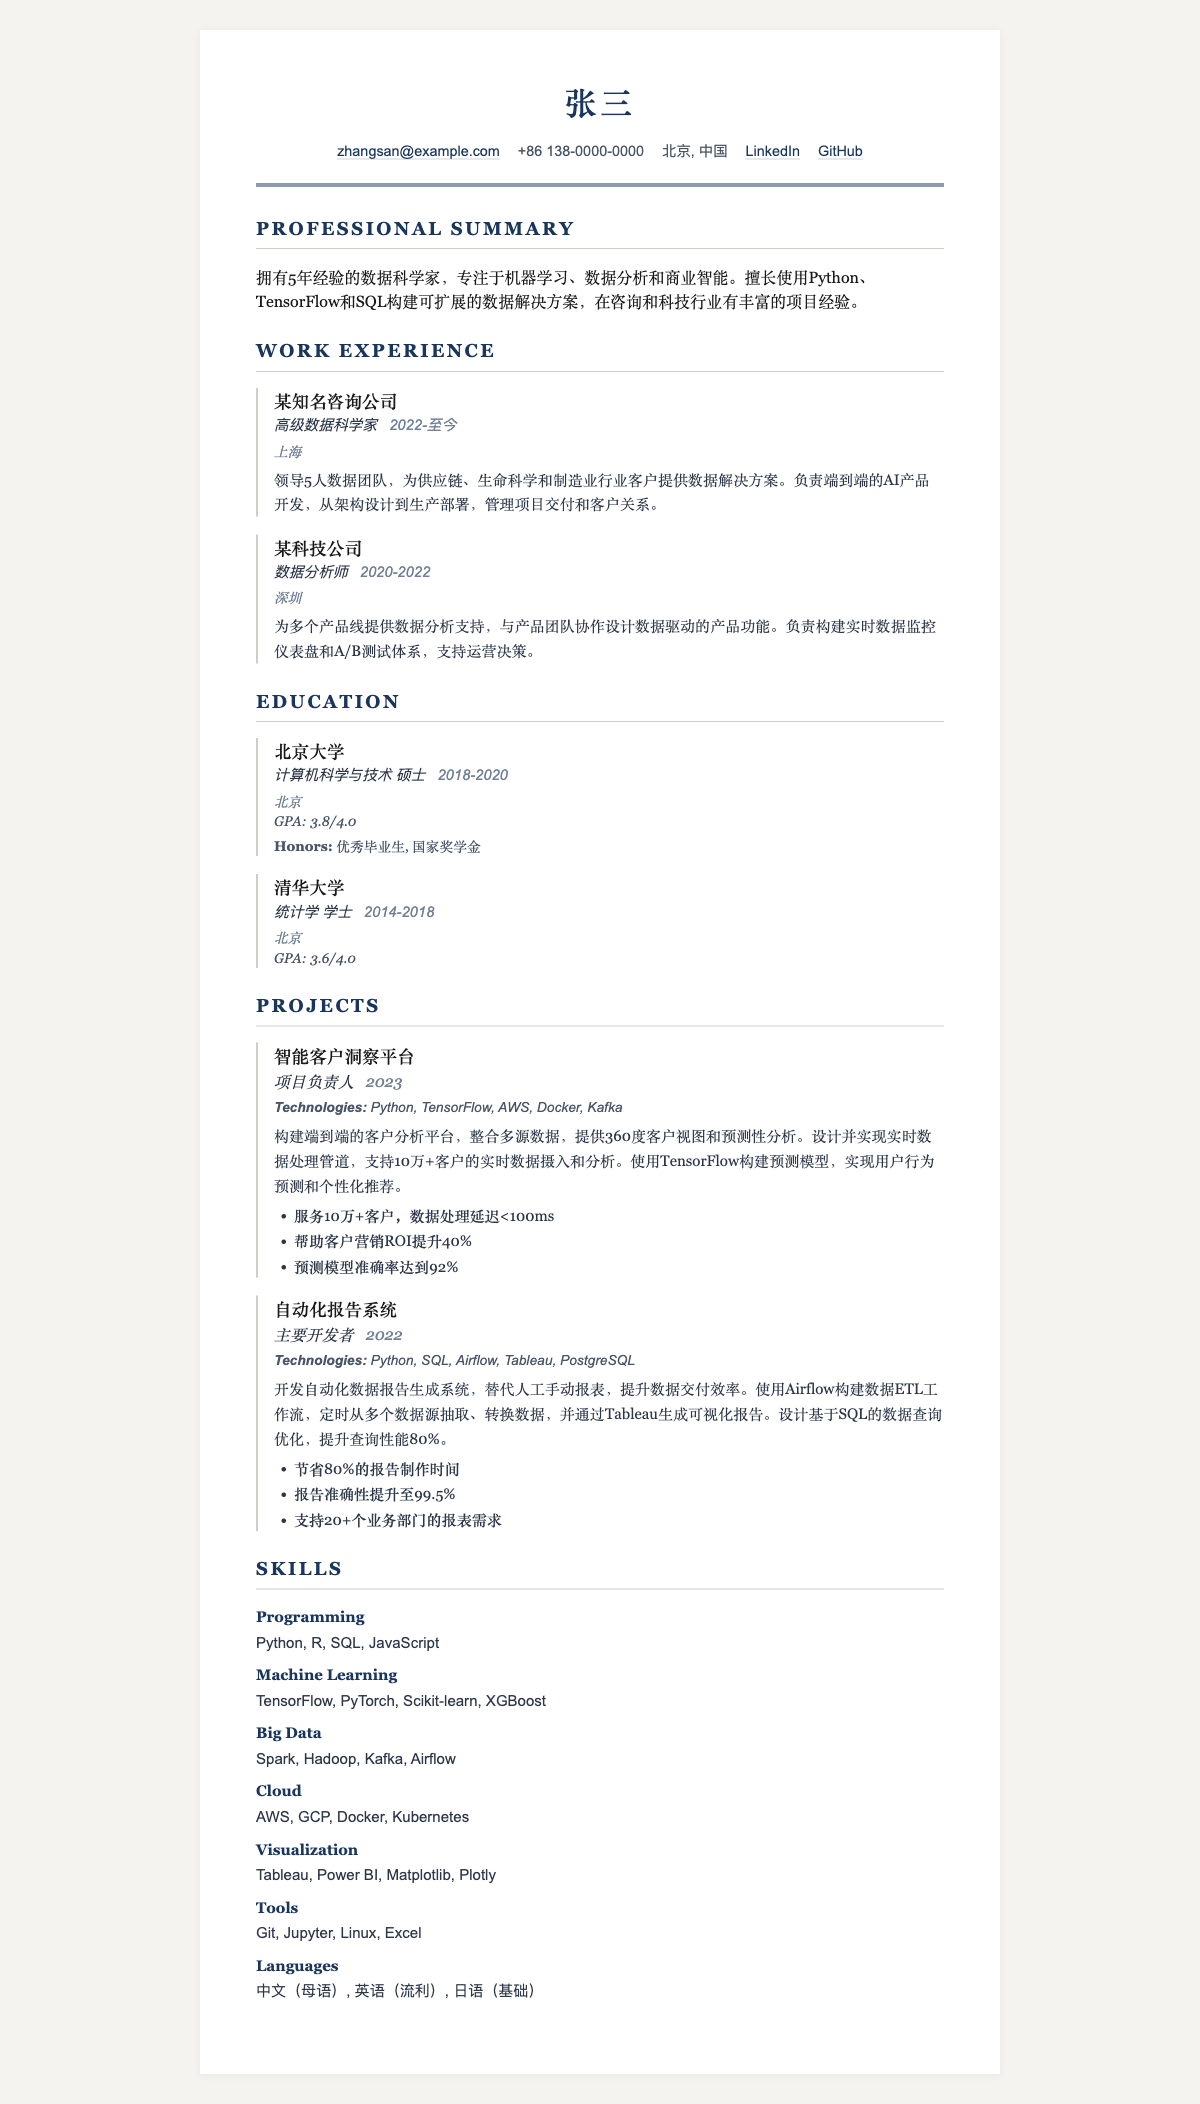
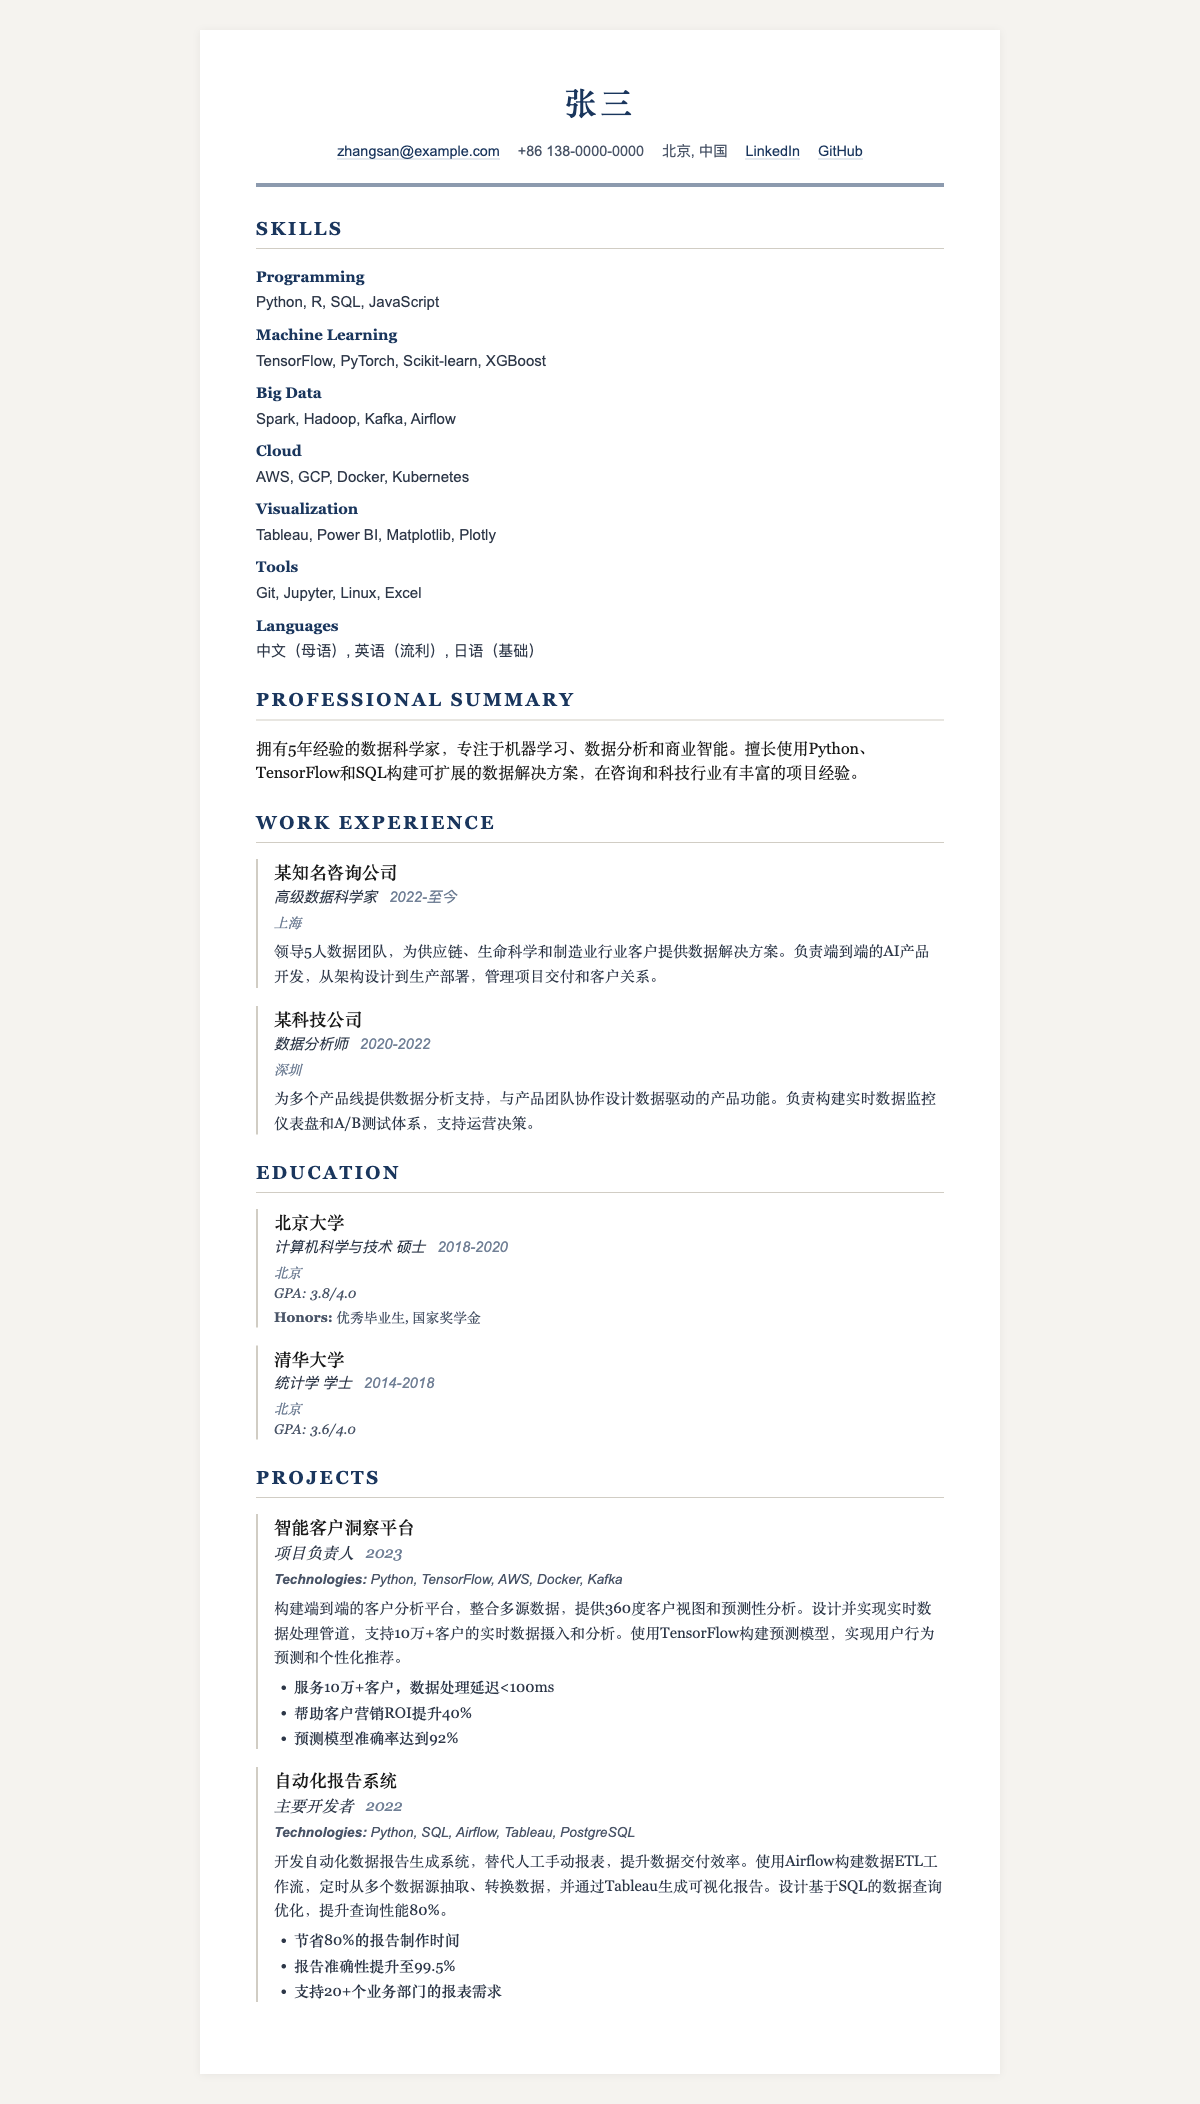
Fix modern theme sidebar alignment and update preview screenshots
Switch modern theme from CSS Grid to Flexbox layout so the skills
section aligns with the right column's bottom edge. Wrap sidebar and
main content in semantic <aside>/<main> elements. Update all theme
previews and use table layout in README for horizontal image alignment.

diff --git a/assets/css/modern.css b/assets/css/modern.css
@@ -15,8 +15,7 @@ body {
 }
 
 .resume-container {
-    display: grid;
-    grid-template-columns: 260px 1fr;
+    display: flex;
     max-width: 900px;
     margin: 0 auto;
     background: #1e293b;
@@ -25,8 +24,14 @@ body {
 
 /* --- Sidebar (Column 1) --- */
 
+.sidebar {
+    width: 260px;
+    flex-shrink: 0;
+    display: flex;
+    flex-direction: column;
+}
+
 .resume-header {
-    grid-column: 1;
     padding: 40px 24px 20px;
     color: white;
 }
@@ -62,9 +67,9 @@ body {
 }
 
 [data-section="skills"] {
-    grid-column: 1;
     padding: 0 24px 40px;
     color: white;
+    margin-top: auto;
 }
 
 [data-section="skills"] .section-title {
@@ -91,11 +96,15 @@ body {
 
 /* --- Main Content (Column 2) --- */
 
+.main-content {
+    flex: 1;
+    background: white;
+}
+
 [data-section="summary"],
 [data-section="experience"],
 [data-section="education"],
 [data-section="projects"] {
-    grid-column: 2;
     background: white;
     padding: 28px 40px;
 }
@@ -251,8 +260,12 @@ body {
     }
 
     .resume-container {
-        display: block;
+        flex-direction: column;
         max-width: 100%;
+    }
+
+    .sidebar {
+        width: 100%;
     }
 
     .resume-header {

diff --git a/scripts/generate_html.py b/scripts/generate_html.py
@@ -141,32 +141,36 @@ def generate_resume_html(resume_data, theme="modern", language="en"):
 
 def build_sections(resume_data, language):
     """Build HTML sections from resume data."""
-    sections = []
+    sidebar_sections = []
+    main_sections = []
 
-    # Header (Personal Info)
-    sections.append(build_header(resume_data.get("personal", {}), language))
+    # Header (Personal Info) — always in sidebar
+    sidebar_sections.append(build_header(resume_data.get("personal", {}), language))
 
     # Summary
     if resume_data.get("summary"):
-        sections.append(build_summary(resume_data["summary"], language))
+        main_sections.append(build_summary(resume_data["summary"], language))
 
     # Experience
     if resume_data.get("experience"):
-        sections.append(build_experience(resume_data["experience"], language))
+        main_sections.append(build_experience(resume_data["experience"], language))
 
     # Education
     if resume_data.get("education"):
-        sections.append(build_education(resume_data["education"], language))
+        main_sections.append(build_education(resume_data["education"], language))
 
     # Projects
     if resume_data.get("projects"):
-        sections.append(build_projects(resume_data["projects"], language))
+        main_sections.append(build_projects(resume_data["projects"], language))
 
-    # Skills
+    # Skills — always in sidebar
     if resume_data.get("skills"):
-        sections.append(build_skills(resume_data["skills"], language))
+        sidebar_sections.append(build_skills(resume_data["skills"], language))
 
-    return "\n".join(sections)
+    sidebar_html = '<aside class="sidebar">' + "\n".join(sidebar_sections) + '</aside>'
+    main_html = '<main class="main-content">' + "\n".join(main_sections) + '</main>'
+
+    return sidebar_html + "\n" + main_html
 
 
 def build_header(personal, language):

diff --git a/README.md b/README.md
@@ -13,12 +13,20 @@ AI-powered resume builder that runs locally. Import from PDF, edit interactively
 - **Dual Export** — Styled HTML + print-ready PDF (A4)
 - **Local-first** — Everything runs locally, no data leaves your machine
 
-<p align="center">
-  <img src="previews/modern.png" width="180" alt="Modern" />
-  <img src="previews/classic.png" width="180" alt="Classic" />
-  <img src="previews/minimal.png" width="180" alt="Minimal" />
-  <img src="previews/creative.png" width="180" alt="Creative" />
-</p>
+<table align="center">
+  <tr>
+    <td><img src="previews/modern.png" width="180" alt="Modern" /></td>
+    <td><img src="previews/classic.png" width="180" alt="Classic" /></td>
+    <td><img src="previews/minimal.png" width="180" alt="Minimal" /></td>
+    <td><img src="previews/creative.png" width="180" alt="Creative" /></td>
+  </tr>
+  <tr align="center">
+    <td><b>Modern</b></td>
+    <td><b>Classic</b></td>
+    <td><b>Minimal</b></td>
+    <td><b>Creative</b></td>
+  </tr>
+</table>
 
 ## Prerequisites
 
